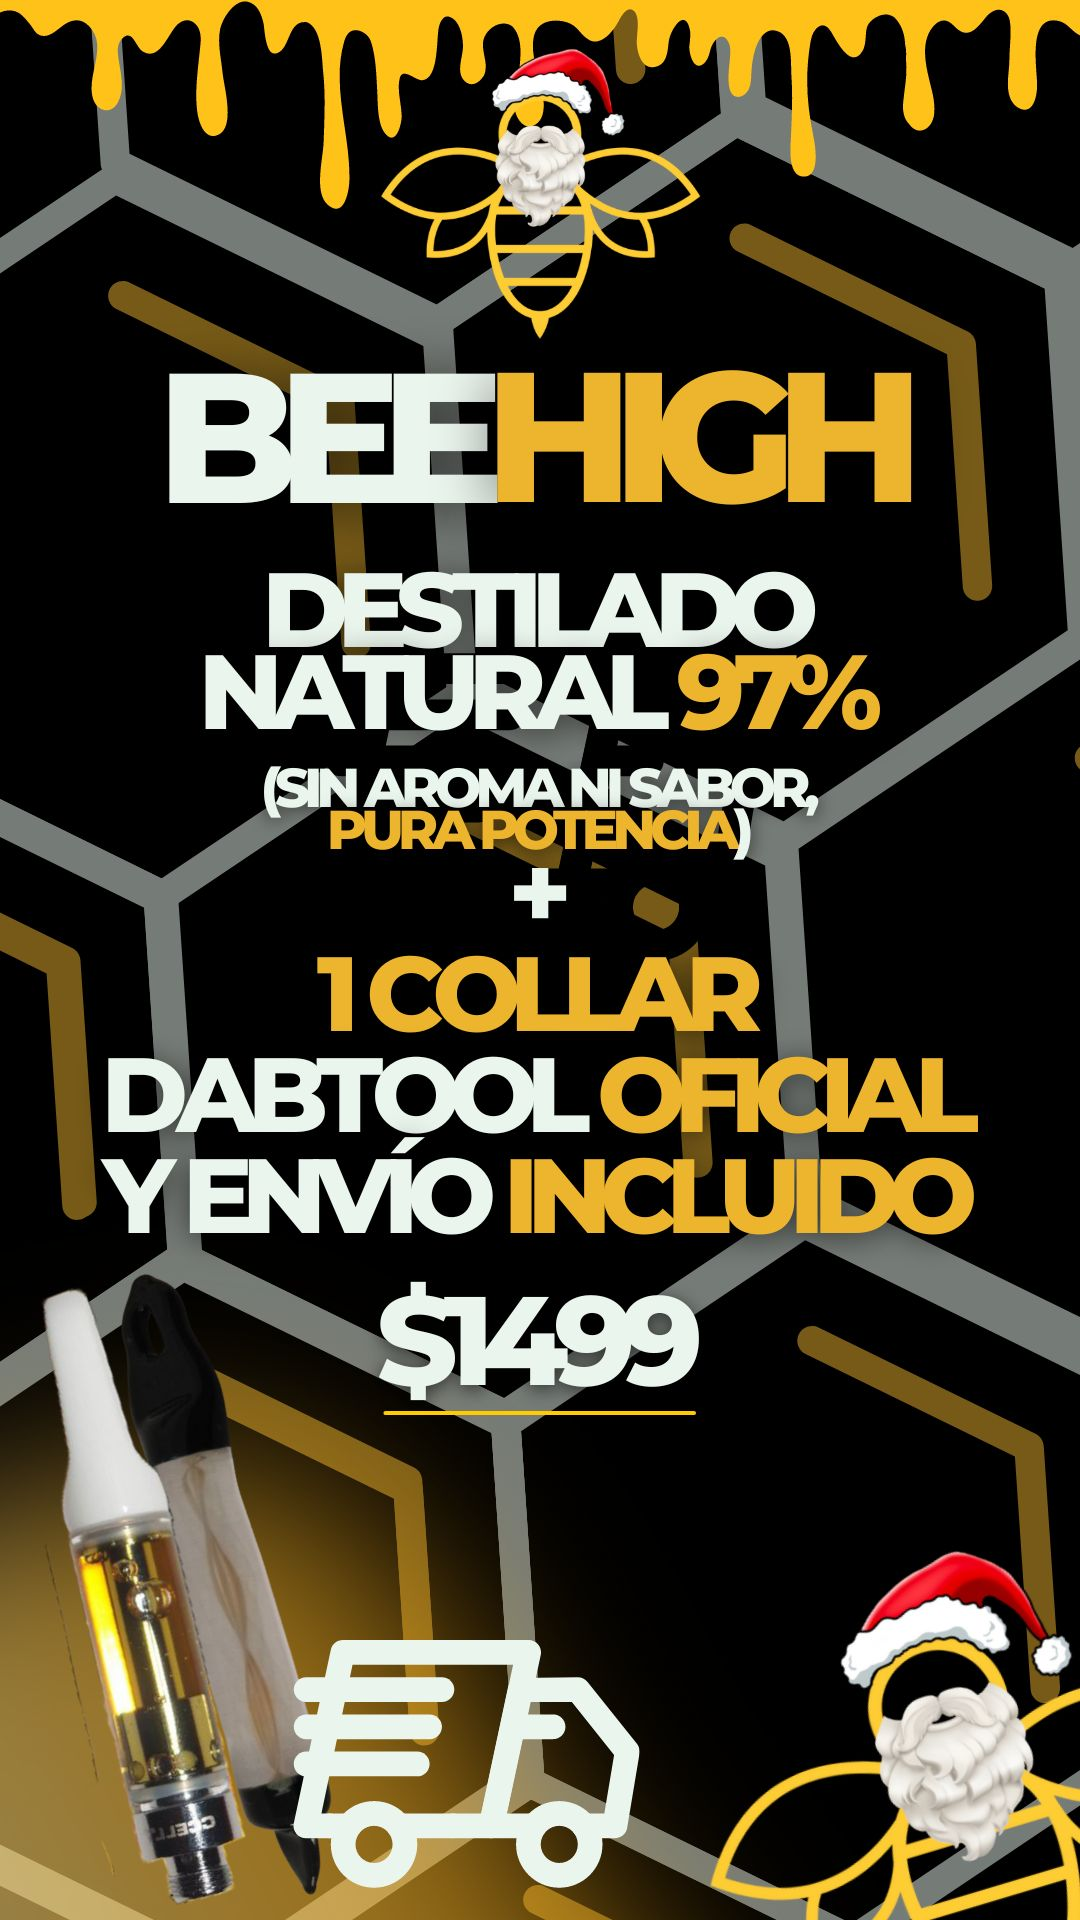
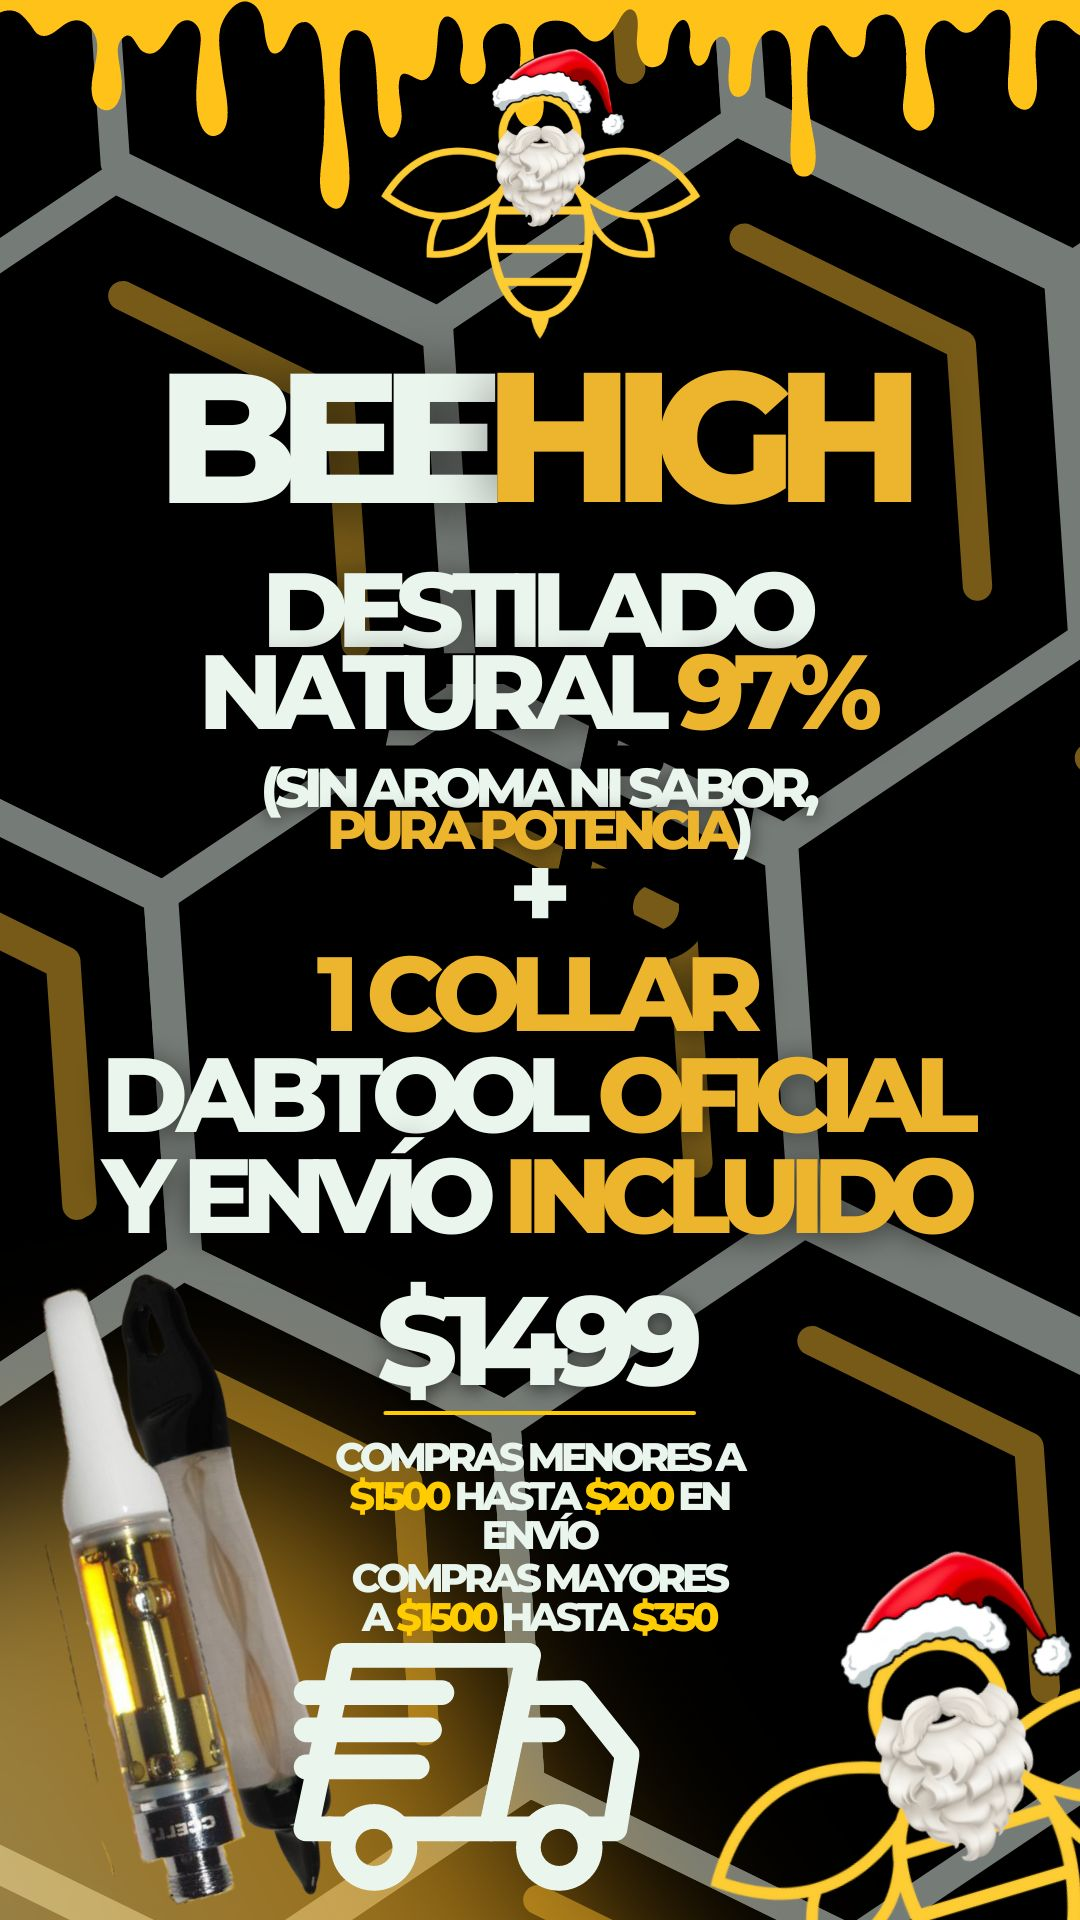
add promos

Changed region(s): [[0.275, 0.75, 0.7028, 1.0]]

diff --git a/home.html b/home.html
@@ -72,7 +72,7 @@
 
             <article class="slide">
                 <div class="infoProducto">
-                    <img src="/media/beehigh.jpg" alt="Promo1" class="imagenPromo"> <!--dejar esta promo siempre-->
+                    <img src="/media/kitexpress.jpg" alt="Promo1" class="imagenPromo"> <!--dejar esta promo siempre-->
                 </div>
             </article>
 
